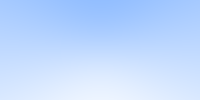
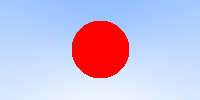
basic sphere

Changed region(s): [[0.36, 0.21, 0.66, 0.78]]

diff --git a/src/main.rs b/src/main.rs
@@ -34,6 +34,9 @@ impl Vec3 {
     fn unit(&self) -> Self {
         *self / self.length()
     }
+    fn dot(&self, other: Self) -> f64 {
+        self.0*other.0 + self.1*other.1 + self.2*other.2
+    }
 }
 
 impl ops::Add for Vec3 {
@@ -41,6 +44,22 @@ impl ops::Add for Vec3 {
 
     fn add(self, other: Self) -> Self {
         Vec3(self.0 + other.0, self.1 + other.1, self.2 + other.2)
+    }
+}
+
+impl ops::Neg for Vec3 {
+    type Output = Self;
+
+    fn neg(self) -> Self {
+        Vec3(-self.0, -self.1, -self.2)
+    }
+}
+
+impl ops::Sub for Vec3 {
+    type Output = Self;
+
+    fn sub(self, other: Self) -> Self {
+        self + -other
     }
 }
 
@@ -85,7 +104,19 @@ impl Ray {
     }
 }
 
+fn hit_sphere(center: Vec3, radius: f64, r: &Ray) -> bool {
+    let oc = *r.origin() - center;
+    let a = r.direction().dot(*r.direction());
+    let b = 2.0 * oc.dot(*r.direction());
+    let c = oc.dot(oc) - radius * radius;
+    let discriminant = b*b - 4.0*a*c;
+    discriminant > 0.0
+}
+
 fn color(r: &Ray) -> Vec3 {
+    if (hit_sphere(Vec3(0.0, 0.0, -1.0), 0.5, r)) {
+        return Vec3(1.0, 0.0, 0.0);
+    }
     let unit_direction = r.direction().unit();
     let t = 0.5 * (unit_direction.y() + 1.0);
     (1.0 - t) * Vec3(1.0, 1.0, 1.0) + t * Vec3(0.5, 0.7, 1.0)
